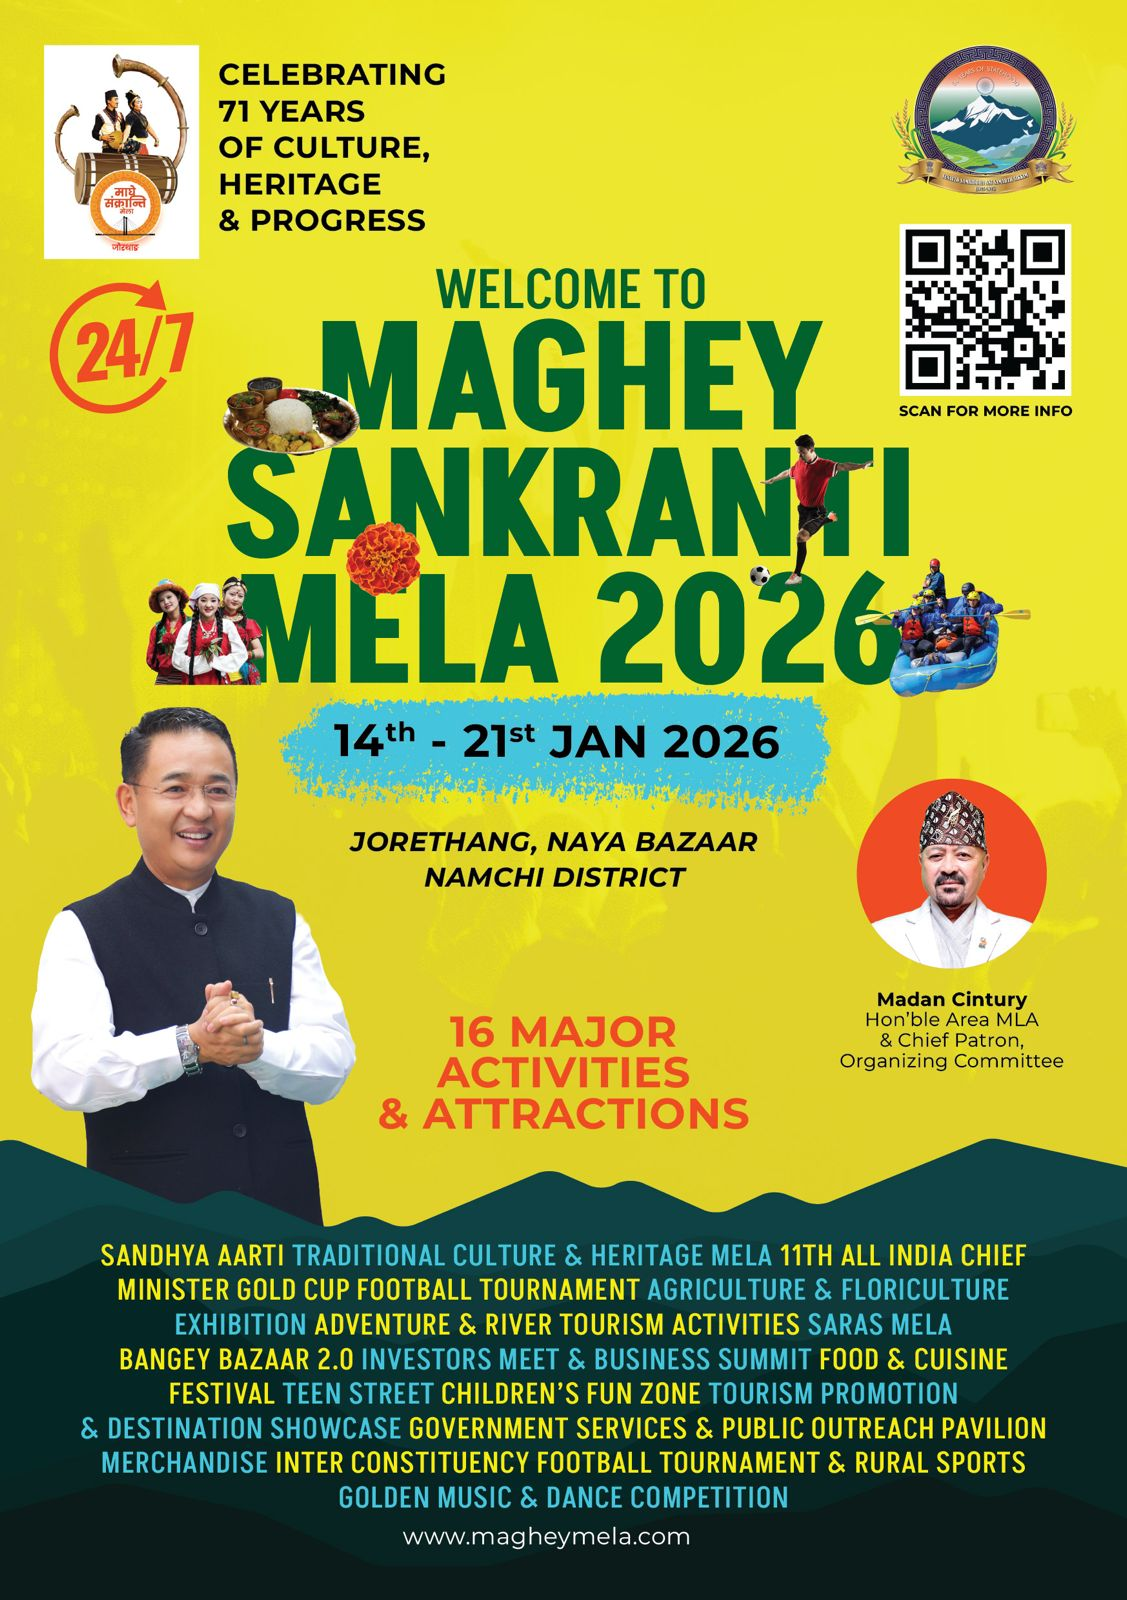
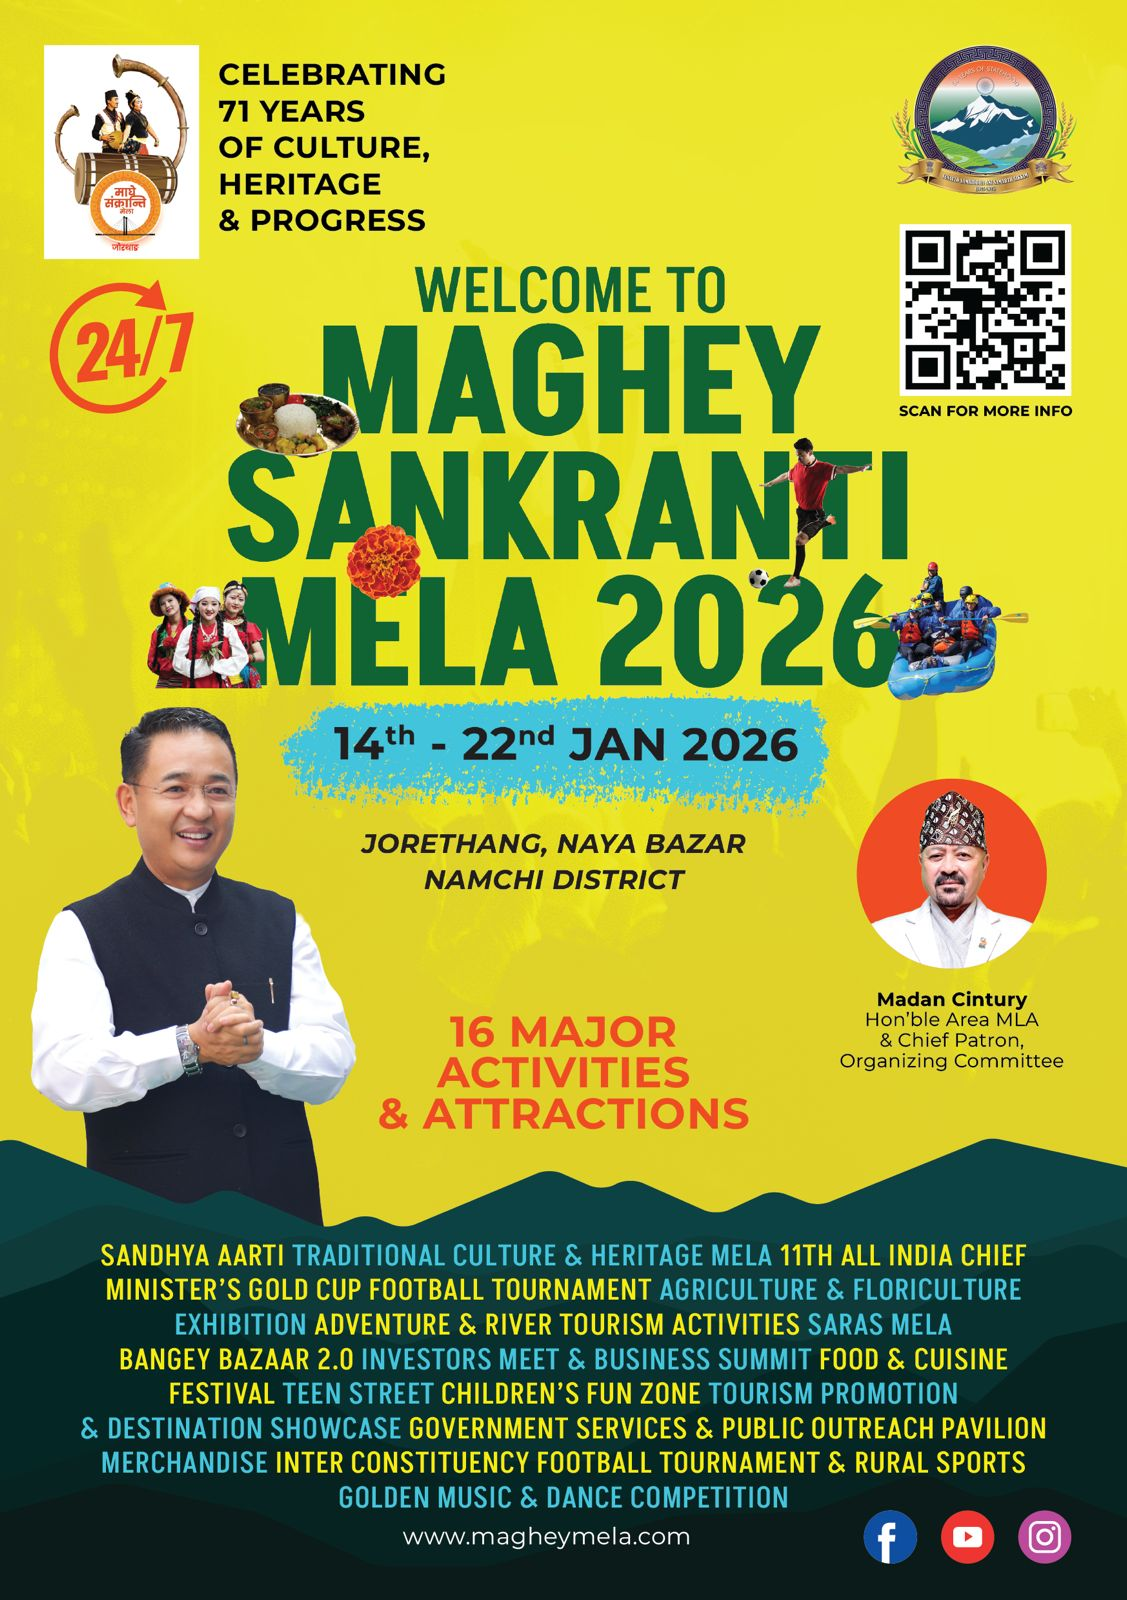
date changes updated

diff --git a/app/events/page.tsx b/app/events/page.tsx
@@ -32,7 +32,7 @@ export default function EventsPage() {
   const events = [
     {
       title: "Sandhya Aarati",
-      date: "14-21 January 2026",
+      date: "14-22 January 2026",
       time: "5pm-6pm",
       location: "River Confluence",
       description:
@@ -44,7 +44,7 @@ export default function EventsPage() {
     },
     {
       title: "Traditional Culture & Heritage Mela",
-      date: "14-21 January 2026",
+      date: "14-22 January 2026",
       time: "24/7",
       location: "Heritage Pavilion",
       description:
@@ -56,7 +56,7 @@ export default function EventsPage() {
     },
     {
       title: "Golden Music & Dance Competition",
-      date: "14-21 January 2026",
+      date: "14-22 January 2026",
       time: "10:00 AM - 8:00 PM",
       location: "Main Stage",
       description:
@@ -68,7 +68,7 @@ export default function EventsPage() {
     },
     {
       title: "11th All India Chief Minister's Gold Cup Football Tournament",
-      date: "5-21 January 2026",
+      date: "5-22 January 2026",
       time: "11am-5pm",
       location: "Renovated Football Stadium",
       description:
@@ -81,7 +81,7 @@ export default function EventsPage() {
     },
     {
       title: "Agriculture & Floriculture Exhibition",
-      date: "14-21 January 2026",
+      date: "14-22 January 2026",
       time: "9:00 AM - 7:00 PM",
       location: "Agriculture Pavilion",
       description:
@@ -93,7 +93,7 @@ export default function EventsPage() {
     },
     {
       title: "Adventure & River Tourism Activities",
-      date: "14-21 January 2026",
+      date: "14-22 January 2026",
       time: "8:00 AM - 6:00 PM",
       location: "Adventure Zone & Riverside",
       description:
@@ -105,7 +105,7 @@ export default function EventsPage() {
     },
     {
       title: "SARAS Mela",
-      date: "14-21 January 2026",
+      date: "14-22 January 2026",
       time: "24/7",
       location: "Women's Pavilion",
       description:
@@ -117,7 +117,7 @@ export default function EventsPage() {
     },
     {
       title: "Bangey Bazar 2.0",
-      date: "14-21 January 2026",
+      date: "14-22 January 2026",
       time: "24/7",
       location: "Main Festival Ground",
       description:
@@ -129,7 +129,7 @@ export default function EventsPage() {
     },
     {
       title: "Investors Meet & Business Summit",
-      date: "14-21 January 2026",
+      date: "14-22 January 2026",
       time: "10am-10pm",
       location: "Business Pavilion",
       description:
@@ -141,7 +141,7 @@ export default function EventsPage() {
     },
     {
       title: "Food & Cuisine Festival",
-      date: "14-21 January 2026",
+      date: "14-22 January 2026",
       time: "24/7",
       location: "Food Court & Stalls",
       description:
@@ -153,7 +153,7 @@ export default function EventsPage() {
     },
     {
       title: "Teen's Street",
-      date: "14-21 January 2026",
+      date: "14-22 January 2026",
       time: "10am - 12pm",
       location: "Youth Zone",
       description:
@@ -165,7 +165,7 @@ export default function EventsPage() {
     },
     {
       title: "Children's Fun Zone",
-      date: "14-21 January 2026",
+      date: "14-22 January 2026",
       time: "10am-10pm",
       location: "Kids Area",
       description:
@@ -177,7 +177,7 @@ export default function EventsPage() {
     },
     {
       title: "Tourism Promotion & Destination Showcase",
-      date: "14-21 January 2026",
+      date: "14-22 January 2026",
       time: "24/7",
       location: "Tourism Pavilion",
       description:
@@ -190,7 +190,7 @@ export default function EventsPage() {
     },
     {
       title: "Government Services & Public Outreach Pavilion",
-      date: "14-21 January 2026",
+      date: "14-22 January 2026",
       time: "10am-10pm",
       location: "Government Pavilion",
       description:
@@ -203,7 +203,7 @@ export default function EventsPage() {
     },
     {
       title: "Merchandise",
-      date: "14-21 January 2026",
+      date: "14-22 January 2026",
       time: "24/7",
       location: "Merchandise Stalls",
       description:
@@ -215,7 +215,7 @@ export default function EventsPage() {
     },
     {
       title: "Rural Sports & Others",
-      date: "5-21 January 2026",
+      date: "5-22 January 2026",
       time: "8am - 5pm",
       location: "Sports Ground",
       description:
@@ -242,7 +242,7 @@ export default function EventsPage() {
         <title>Events & Activities - Maghey Sankranti Mela 2026</title>
         <meta
           name="description"
-          content="Explore all events and activities at Maghey Sankranti Mela 2026. From cultural performances to adventure sports, spiritual ceremonies to food festivals. Join us at Jorethang Nayabazar, Sikkim from January 14-21, 2026."
+          content="Explore all events and activities at Maghey Sankranti Mela 2026. From cultural performances to adventure sports, spiritual ceremonies to food festivals. Join us at Jorethang Nayabazar, Sikkim from January 14-22, 2026."
         />
         <meta
           name="keywords"
@@ -282,7 +282,7 @@ export default function EventsPage() {
               <div className="flex flex-wrap justify-center gap-4 text-sm">
                 <div className="flex items-center gap-2 px-4 py-2 bg-card rounded-full border">
                   <Calendar className="h-4 w-4 text-primary" />
-                  <span>14-21 January 2026</span>
+                  <span>14-22 January 2026</span>
                 </div>
                 <div className="flex items-center gap-2 px-4 py-2 bg-card rounded-full border">
                   <MapPin className="h-4 w-4 text-secondary" />

diff --git a/app/gallery/page.tsx b/app/gallery/page.tsx
@@ -75,38 +75,28 @@ export default function GalleryPage() {
       category: "Community",
     },
     {
-      src: "/assets/gallery/banner gallery/bn0gallery11.jpeg",
+      src: "/assets/gallery/banner gallery/bn0gallery12.jpeg",
       title: "Community Celebration 2",
       category: "Community",
     },
     {
-      src: "/assets/gallery/banner gallery/bn0gallery12.jpeg",
+      src: "/assets/gallery/banner gallery/bn0gallery123.jpeg",
       title: "Community Celebration 3",
       category: "Community",
     },
     {
-      src: "/assets/gallery/banner gallery/bn0gallery123.jpeg",
+      src: "/assets/gallery/banner gallery/bn0gallery12ds.jpeg",
       title: "Community Celebration 4",
       category: "Community",
     },
     {
-      src: "/assets/gallery/banner gallery/bn0gallery1234.jpeg",
+      src: "/assets/gallery/banner gallery/bn0gallerynew1.jpeg",
       title: "Community Celebration 5",
       category: "Community",
     },
     {
-      src: "/assets/gallery/banner gallery/bn0gallery12343.jpeg",
+      src: "/assets/gallery/banner gallery/bn0gallerynew2.jpeg",
       title: "Community Celebration 6",
-      category: "Community",
-    },
-    {
-      src: "/assets/gallery/banner gallery/bn0gallery1234332.jpeg",
-      title: "Community Celebration 7",
-      category: "Community",
-    },
-    {
-      src: "/assets/gallery/banner gallery/bn0gallery12ds.jpeg",
-      title: "Community Celebration 8",
       category: "Community",
     },
   ];

diff --git a/app/layout.tsx b/app/layout.tsx
@@ -45,7 +45,7 @@ export const metadata: Metadata = {
     template: "%s | Maghey Sankranti Mela 2026",
   },
   description:
-    "Experience the 71-year legacy of Maghey Sankranti Mela at Jorethang Nayabazar, Sikkim. Join thousands for cultural performances, adventure activities, holy dips, and festivities celebrating Sikkim's rich heritage from January 14-21, 2026.",
+    "Experience the 71-year legacy of Maghey Sankranti Mela at Jorethang Nayabazar, Sikkim. Join thousands for cultural performances, adventure activities, holy dips, and festivities celebrating Sikkim's rich heritage from January 14-22, 2026.",
   keywords: [
     "Maghey Sankranti Mela",
     "Jorethang Nayabazar",
@@ -79,7 +79,7 @@ export const metadata: Metadata = {
   openGraph: {
     title: "Maghey Sankranti Mela 2026 - Sikkim's Grandest Cultural Festival",
     description:
-      "Experience 71 years of cultural heritage at Jorethang Nayabazar, Sikkim. Join thousands for cultural performances, adventure activities, and traditional celebrations from January 14-21, 2026.",
+      "Experience 71 years of cultural heritage at Jorethang Nayabazar, Sikkim. Join thousands for cultural performances, adventure activities, and traditional celebrations from January 14-22, 2026.",
     url: "https://magheymela.com",
     siteName: "Maghey Sankranti Mela 2026",
     locale: "en_US",

diff --git a/components/home/gallery.tsx b/components/home/gallery.tsx
@@ -15,6 +15,30 @@ const images = [
   { src: "/assets/gallery/book stall.jpg", alt: "Book Stall Exhibition" },
   { src: "/assets/gallery/logo launching.jpg", alt: "Logo Launching Ceremony" },
   { src: "/assets/gallery/Damphu.jpg", alt: "Damphu Traditional Music" },
+  {
+    src: "/assets/gallery/banner gallery/bn0gallery1.jpeg",
+    alt: "Festival Banner Gallery 1",
+  },
+  {
+    src: "/assets/gallery/banner gallery/bn0gallery12.jpeg",
+    alt: "Festival Banner Gallery 2",
+  },
+  {
+    src: "/assets/gallery/banner gallery/bn0gallery123.jpeg",
+    alt: "Festival Banner Gallery 3",
+  },
+  {
+    src: "/assets/gallery/banner gallery/bn0gallery12ds.jpeg",
+    alt: "Festival Banner Gallery 4",
+  },
+  {
+    src: "/assets/gallery/banner gallery/bn0gallerynew1.jpeg",
+    alt: "Festival Banner Gallery 5",
+  },
+  {
+    src: "/assets/gallery/banner gallery/bn0gallerynew2.jpeg",
+    alt: "Festival Banner Gallery 6",
+  },
 ];
 
 export function Gallery() {

diff --git a/components/home/hero.tsx b/components/home/hero.tsx
@@ -245,7 +245,7 @@ export default function Hero() {
             confluence of Rangeet and Rammam rivers. Celebrating 71 years of
             heritage, tradition, and unity from{" "}
             <span className="text-amber-400 font-semibold">
-              January 14-21, 2026
+              January 14-22, 2026
             </span>{" "}
             at Jorethang Nayabazar, Namchi District.
           </motion.p>
@@ -260,7 +260,7 @@ export default function Hero() {
             <div className="flex items-center gap-2 bg-white/10 backdrop-blur-sm rounded-full px-4 py-2">
               <Calendar className="h-5 w-5 text-amber-400" />
               <span className="text-white text-sm font-medium">
-                Jan 14-21, 2026
+                Jan 14-22, 2026
               </span>
             </div>
             <div className="flex items-center gap-2 bg-white/10 backdrop-blur-sm rounded-full px-4 py-2">

diff --git a/app/page.tsx b/app/page.tsx
@@ -18,7 +18,7 @@ import { MobileNav } from "@/components/navigation/mobile-nav";
 export const metadata: Metadata = {
   title: "Home - Welcome to Maghey Sankranti Mela 2026",
   description:
-    "Welcome to the official website of Maghey Sankranti Mela 2026, Sikkim's grandest cultural festival at Jorethang Nayabazar. Experience 71 years of tradition, cultural heritage, adventure activities, and spiritual celebrations from January 14-21, 2026.",
+    "Welcome to the official website of Maghey Sankranti Mela 2026, Sikkim's grandest cultural festival at Jorethang Nayabazar. Experience 71 years of tradition, cultural heritage, adventure activities, and spiritual celebrations from January 14-22, 2026.",
   keywords: [
     "home page",
     "welcome",

diff --git a/app/homestays/page.tsx b/app/homestays/page.tsx
@@ -338,7 +338,7 @@ export default function HomestaysPage() {
               <div className="flex flex-wrap justify-center gap-4 text-sm">
                 <div className="flex items-center gap-2 px-4 py-2 bg-card rounded-full border">
                   <Calendar className="h-4 w-4 text-primary" />
-                  <span>14-21 January 2026</span>
+                  <span>14-22 January 2026</span>
                 </div>
                 <div className="flex items-center gap-2 px-4 py-2 bg-card rounded-full border">
                   <MapPin className="h-4 w-4 text-secondary" />

diff --git a/components/home/banner.tsx b/components/home/banner.tsx
@@ -33,7 +33,7 @@ export function Banner() {
             <div className="relative bg-gradient-to-br from-green-700 to-emerald-600 rounded-xl md:rounded-2xl p-[2px] md:p-[3px] shadow-2xl">
               <div className="relative w-full h-auto overflow-hidden rounded-lg md:rounded-xl bg-white">
                 <Image
-                  src="/assets/banner/banner.jpg"
+                  src="/assets/banner/banner.jpeg"
                   alt="Maghey Sankranti Mela Banner"
                   width={1600}
                   height={677}

diff --git a/app/contact/page.tsx b/app/contact/page.tsx
@@ -37,8 +37,8 @@ export default function ContactPage() {
       icon: Calendar,
       title: "Festival Dates",
       details: [
-        "14th January – 21st January 2026",
-        "8 Days of Celebration",
+        "14th January – 22nd January 2026",
+        "9 Days of Celebration",
         "Daily Events: 6:00 AM - 10:00 PM",
       ],
       color: "text-accent",
